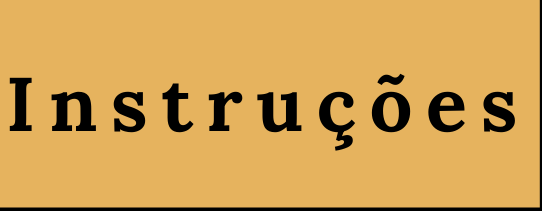
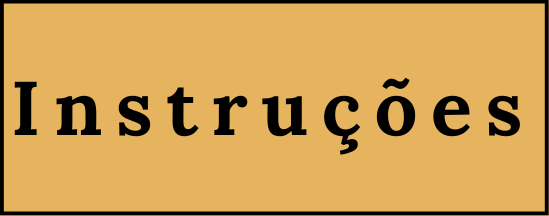
arrumando interface menu

diff --git a/prototipo/menu/menu.py b/prototipo/menu/menu.py
@@ -1,6 +1,6 @@
 from basico.entidade import Entidade
 from .botao import Botao
-from basico.desenhavel import DesenhavelRetangulo, DesenhavelImagem
+from basico.desenhavel import DesenhavelImagem
 from .instrucoes import Instrucoes
 from .creditos import Creditos
 from jogo.tela_game_over import TelaGameOver
@@ -21,19 +21,25 @@ class Menu(Entidade):
 
         arq_fundo = os.path.join('imagens', 'menu', 'menu.png')
         self.__fundo = DesenhavelImagem(tela, arq_fundo, (self.telaW(), self.telaH()))
-        dimens_botao = (5/16 *self.telaW(), 125/1080 *self.telaH())
+
+        arq_botao_jogar = os.path.join('imagens', 'botoes', 'jogar.png')
+        arq_botao_instrucoes = os.path.join('imagens', 'botoes', 'instrucoes.png')
+        arq_botao_creditos = os.path.join('imagens', 'botoes', 'creditos.png')
+        arq_botao_sair = os.path.join('imagens', 'botoes', 'sair.png')
+        dimens_botao = (1/6 *self.telaW(), 1/9 *self.telaH())
+        dimens_botao_1 = (1/7*self.telaW(), 8/84*self.telaH())
 
         self.botoes = [Botao(tela, (self.telaW()/2, 3*self.telaH()/7), dimens_botao,
-                              DesenhavelRetangulo(tela, (153, 76, 0), dimens_botao), "Jogar"),
+                              DesenhavelImagem(tela, arq_botao_jogar, dimens_botao), ""),
 
-                       Botao(tela, (self.telaW()/2, 4*self.telaH()/7), dimens_botao,
-                              DesenhavelRetangulo(tela, (153, 76, 0), dimens_botao), "Instruções"),
+                       Botao(tela, (self.telaW()/4, 4*self.telaH()/7), dimens_botao,
+                              DesenhavelImagem(tela, arq_botao_instrucoes, dimens_botao_1), ""),
 
-                       Botao(tela, (self.telaW()/2, 5*self.telaH()/7), dimens_botao,
-                              DesenhavelRetangulo(tela, (153, 76, 0), dimens_botao), "Créditos"),
+                       Botao(tela, (self.telaW()/4, 5*self.telaH()/7), dimens_botao,
+                              DesenhavelImagem(tela, arq_botao_creditos, dimens_botao_1), ""),
 
-                       Botao(tela, (self.telaW()/2, 6*self.telaH()/7), dimens_botao,
-                              DesenhavelRetangulo(tela, (153, 76, 0), dimens_botao), "Sair")
+                       Botao(tela, (self.telaW()*3/4, 4.5*self.telaH()/7), dimens_botao,
+                              DesenhavelImagem(tela, arq_botao_sair, dimens_botao_1), "")
                        ]
 
         self.__instrucoes = Instrucoes(tela)
